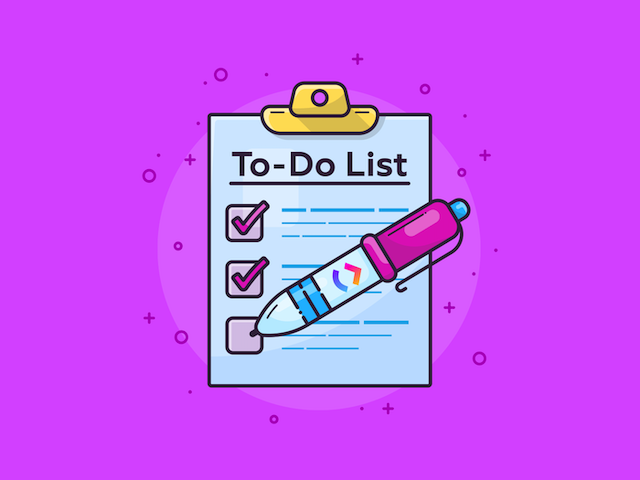
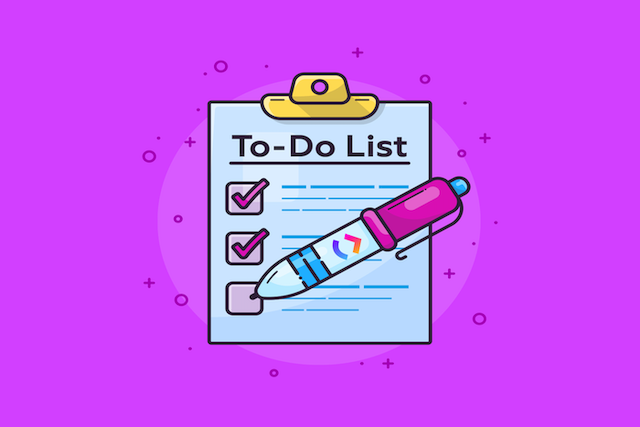
add in work 4 and adjsut all the photo size

diff --git a/index.html b/index.html
@@ -189,13 +189,13 @@
                 to do: Each day I try to mark off as many items on my to-do list
                 as possible.
               </p>
-              <a href="https://fast-brook-98077.herokuapp.com/" title="app2"
+              <a href="https://to-do-list-praphan.onrender.com" title="app2"
                 ><i class="fa-solid fa-link"></i
               ></a>
             </div>
           </div>
           <div class="work">
-            <img src="images/work-3.png" alt="work-3" />
+            <img src="images/work-3.jpg" alt="work-3" />
             <div class="layer">
               <h3>Dice Game</h3>
               <p>
@@ -203,6 +203,19 @@
                 refreshing to play the game. Decide player 1 & 2 by yourself.
               </p>
               <a href="https://bulbasaur-bud.github.io/Dice-Game/" title="app3"
+                ><i class="fa-solid fa-link"></i
+              ></a>
+            </div>
+          </div>
+          <div class="work">
+            <img src="images/work-4.jpg" alt="work-4" />
+            <div class="layer">
+              <h3>Robo Friends</h3>
+              <p>
+                This app help you find a cute robot which can perfectly match to
+                you. Also this app is created by using React. Enjoy the app.
+              </p>
+              <a href="https://robo-friends-praphan.onrender.com/" title="app4"
                 ><i class="fa-solid fa-link"></i
               ></a>
             </div>
